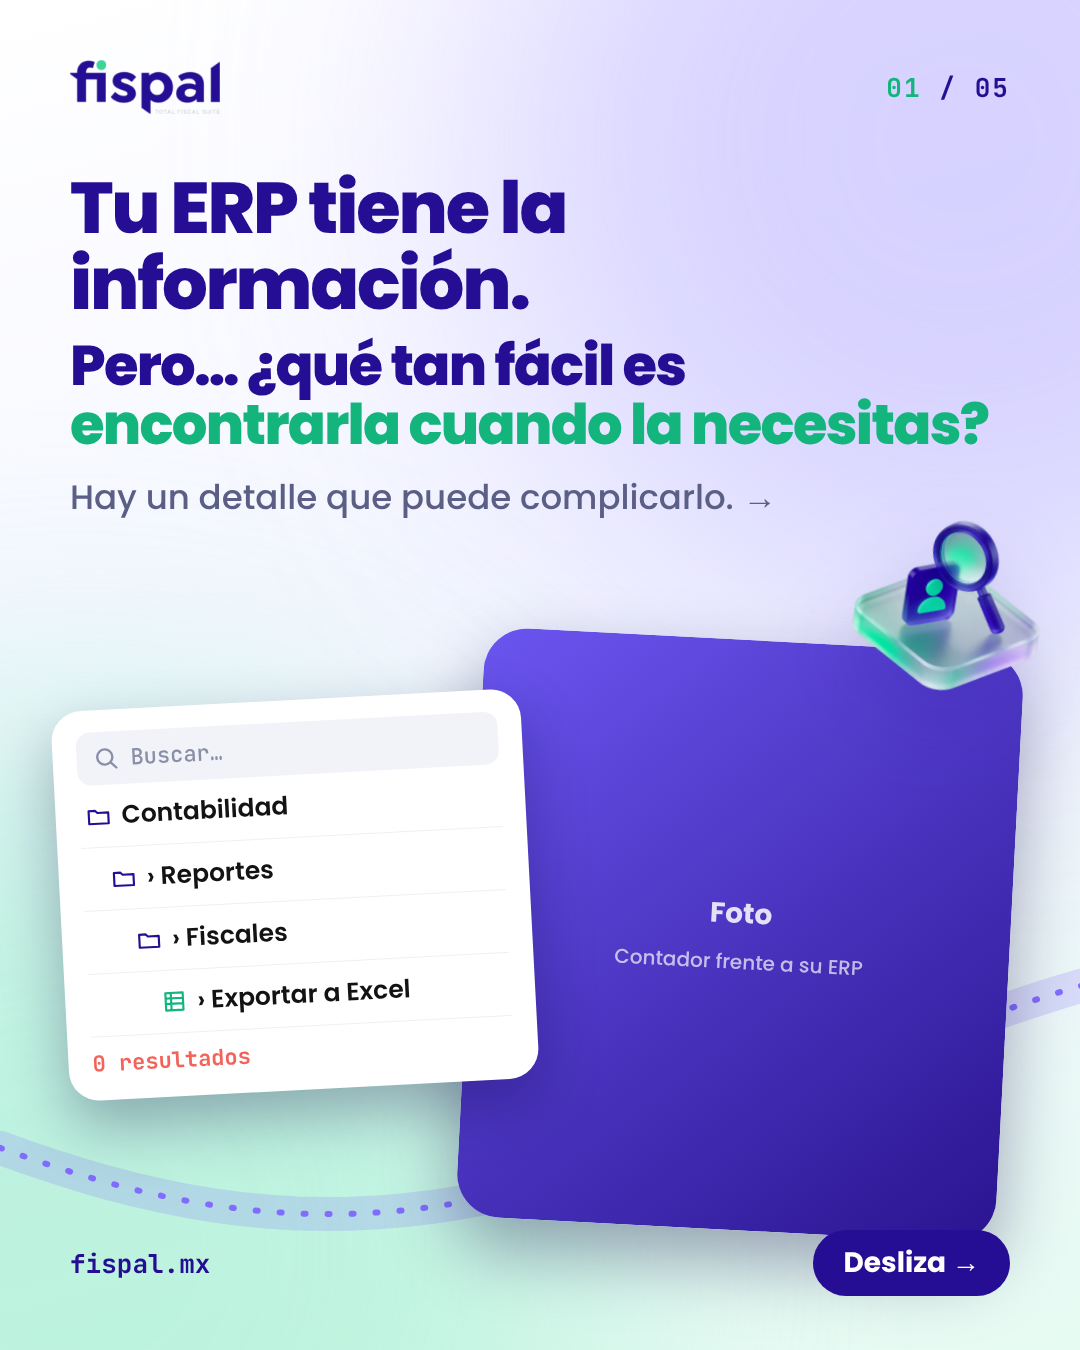
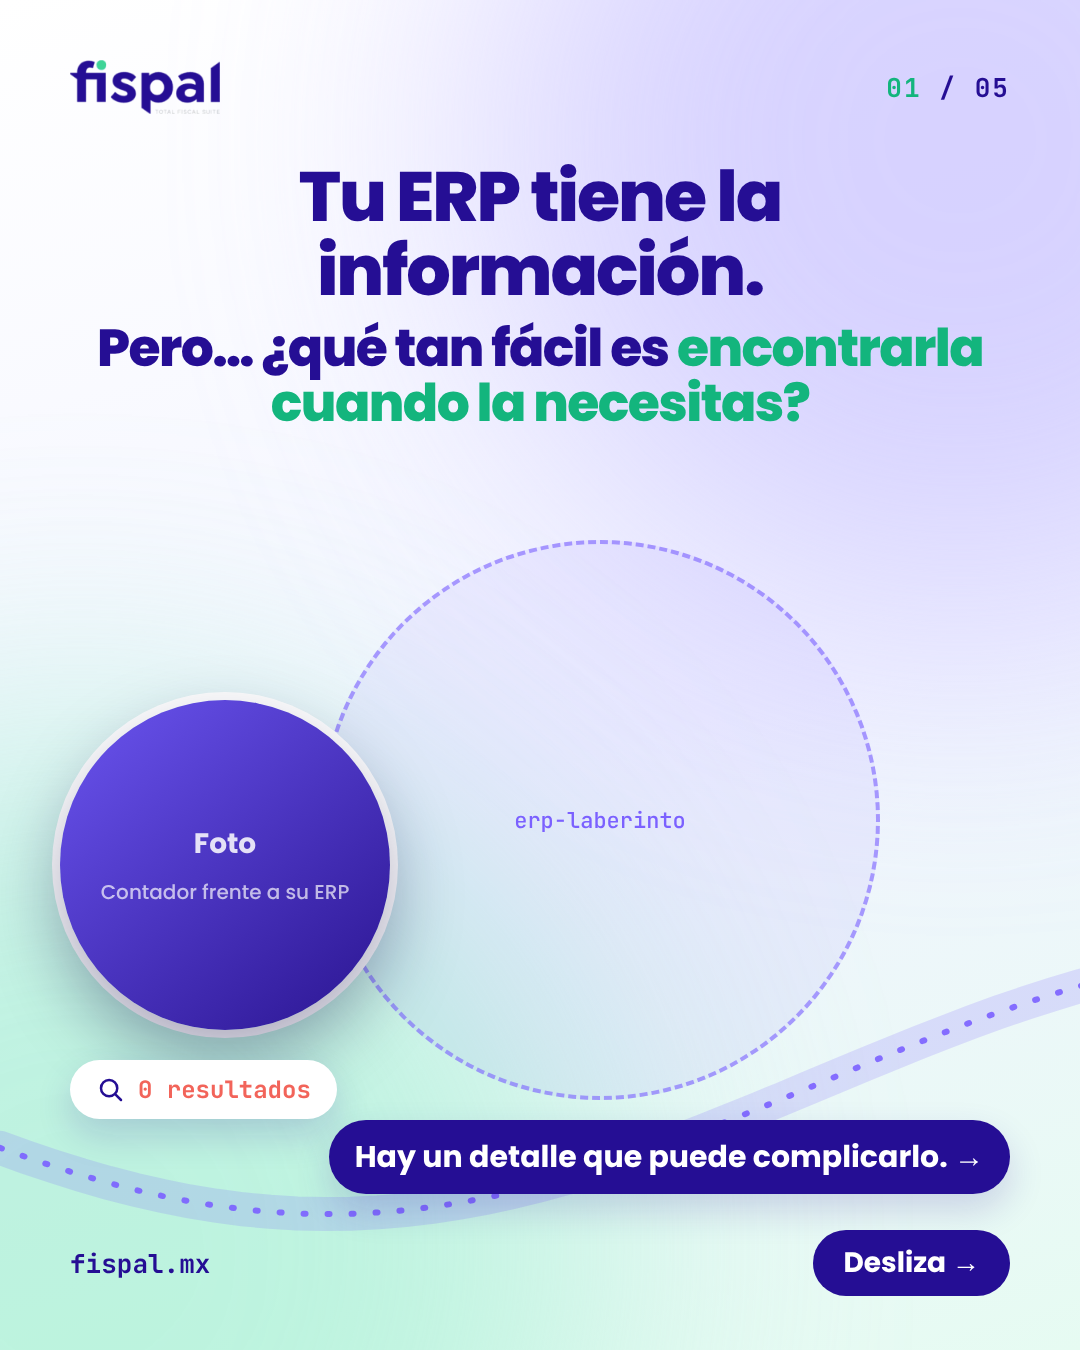
Fispal carrusel 2 (ERP): new layouts and slots for new glass illustrations
Claude-Session: https://claude.ai/code/session_01NghCctPQaKXziVeL1FGG6n

diff --git a/editor/src/carruseles/C2Erp.tsx b/editor/src/carruseles/C2Erp.tsx
@@ -1,9 +1,11 @@
 // Carrusel 2 · parrilla 2 — "Tu ERP tiene la información… ¿qué tan fácil es
 // encontrarla?" Theme: light (white with lilac and mint gradients).
-// Text verbatim from the brief.
+// Its own compositions so it doesn't repeat carrusel 1: a big new glass
+// illustration as the hero of every slide, round photos, a photo banner,
+// centred layouts. Text verbatim from the brief.
 import React from "react";
 import { C, FONT, MONO } from "../fispal/theme";
-import { Body, Card, Carousel, Frame, Glass3D, IC, Icon, Photo, themed, THEMES, Title } from "./kit";
+import { Card, Carousel, Frame, Glass3D, IC, Icon, Photo, themed, THEMES, Title } from "./kit";
 
 const t = themed(THEMES.light);
 const N = 5;
@@ -22,34 +24,30 @@ const ICX = {
   filter: "M3 5h18l-7 8v6l-4 2v-8z",
 };
 
-/* 1 — portada */
+const Pill: React.FC<{ children: React.ReactNode; bg?: string; color?: string; style?: React.CSSProperties }> = ({ children, bg = "#fff", color = "#131313", style }) => (
+  <div style={{ position: "absolute", display: "flex", alignItems: "center", gap: 12, background: bg, color, fontFamily: FONT, fontWeight: 700, fontSize: 28, borderRadius: 999, padding: "14px 26px", boxShadow: "0 16px 36px rgba(37,14,148,.16)", whiteSpace: "nowrap", ...style }}>{children}</div>
+);
+
+/* 1 — portada: centred, the glass labyrinth as hero, round photo */
 const S1: React.FC = () => (
   <Frame t={t} i={0} n={N}>
-    <div style={{ position: "absolute", left: 70, right: 70, top: 170 }}>
-      <Title t={t} size={72} parts={["Tu ERP tiene la información."]} />
-      <Title t={t} size={56} parts={["Pero… ¿qué tan fácil es ", { hl: "encontrarla cuando la necesitas?" }]} style={{ marginTop: 16 }} />
-      <Body t={t}>Hay un detalle que puede complicarlo. →</Body>
+    <div style={{ position: "absolute", left: 70, right: 70, top: 160, textAlign: "center" }}>
+      <Title t={t} size={70} parts={["Tu ERP tiene la información."]} />
+      <Title t={t} size={52} parts={["Pero… ¿qué tan fácil es ", { hl: "encontrarla cuando la necesitas?" }]} style={{ marginTop: 14 }} />
     </div>
-    <Photo name="c2-erp" hint="Contador frente a su ERP" position="50% 30%" style={{ left: 470, top: 640, width: 540, height: 590, transform: "rotate(3deg)" }} />
-    {/* ERP menu maze */}
-    <Card t={t} style={{ position: "absolute", left: 60, top: 700, width: 470, padding: "22px 24px", transform: "rotate(-3deg)" }}>
-      <div style={{ display: "flex", alignItems: "center", gap: 10, background: "#F2F3F8", borderRadius: 14, padding: "12px 16px" }}>
-        <Icon d={IC.search} size={28} color="#8A8FA8" />
-        <span style={{ fontFamily: MONO, fontSize: 22, color: "#8A8FA8" }}>Buscar…</span>
-      </div>
-      {["Contabilidad", "› Reportes", "  › Fiscales", "    › Exportar a Excel"].map((m, k) => (
-        <div key={k} style={{ display: "flex", alignItems: "center", gap: 10, padding: "12px 6px", paddingLeft: 6 + k * 22, borderBottom: "1px solid #EEF0F6" }}>
-          <Icon d={k === 3 ? ICX.sheet : ICX.folder} size={26} color={k === 3 ? GREEN : C.purple} />
-          <span style={{ fontWeight: 600, fontSize: 25 }}>{m.trim()}</span>
-        </div>
-      ))}
-      <div style={{ marginTop: 12, fontFamily: MONO, fontWeight: 700, fontSize: 22, color: CORAL }}>0 resultados</div>
-    </Card>
-    <Glass3D name="lupa" x={950} y={600} size={220} rot={10} />
+    <Glass3D name="erp-laberinto" x={600} y={820} size={560} />
+    <Photo name="c2-erp" hint="Contador frente a su ERP" position="50% 28%" radius="50%" ring="#fff" style={{ left: 60, top: 700, width: 330, height: 330 }} />
+    <Pill style={{ left: 70, top: 1060 }}>
+      <Icon d={IC.search} size={30} color={C.purple} />
+      <span style={{ fontFamily: MONO, fontSize: 24, color: CORAL }}>0 resultados</span>
+    </Pill>
+    <Pill bg={C.purple} color="#fff" style={{ right: 70, top: 1120, fontSize: 30 }}>
+      Hay un detalle que puede complicarlo. →
+    </Pill>
   </Frame>
 );
 
-/* 2 — más pasos de los que debería */
+/* 2 — más pasos: big glass staircase + a vertical step list */
 const STEPS = [
   { l: "Abrir el ERP", i: ICX.grid },
   { l: "Entrar al módulo", i: ICX.folder },
@@ -61,134 +59,95 @@ const STEPS = [
 
 const S2: React.FC = () => (
   <Frame t={t} i={1} n={N}>
-    <div style={{ position: "absolute", left: 70, right: 70, top: 170 }}>
-      <Title t={t} size={52} parts={["Entre reportes, módulos, archivos y diferentes fuentes, encontrar un dato específico puede requerir ", { hl: "más pasos de los que debería." }]} />
+    <div style={{ position: "absolute", left: 70, right: 70, top: 160 }}>
+      <Title t={t} size={50} parts={["Entre reportes, módulos, archivos y diferentes fuentes, encontrar un dato específico puede requerir ", { hl: "más pasos de los que debería." }]} />
     </div>
-    <svg width={1080} height={1350} style={{ position: "absolute", inset: 0 }}>
-      <path d="M250,610 C700,610 830,640 830,740 C830,840 250,820 250,930 C250,1040 830,1020 830,1130" fill="none" stroke={C.purple} strokeWidth={6} strokeDasharray="14 12" opacity={0.35} />
-    </svg>
-    {STEPS.map((s, k) => {
-      const x = k % 2 === 0 ? 90 : 570;
-      const y = 560 + k * 100;
-      return (
-        <Card key={s.l} t={t} style={{ position: "absolute", left: x, top: y, width: 420, padding: "16px 20px", display: "flex", alignItems: "center", gap: 16, transform: `rotate(${k % 2 ? 2 : -2}deg)` }}>
-          <div style={{ width: 52, height: 52, borderRadius: 26, background: C.purple, color: "#fff", fontFamily: FONT, fontWeight: 800, fontSize: 26, display: "flex", alignItems: "center", justifyContent: "center", flexShrink: 0 }}>{k + 1}</div>
-          <Icon d={s.i} size={34} color={C.purple} />
-          <span style={{ fontWeight: 700, fontSize: 28 }}>{s.l}</span>
-        </Card>
-      );
-    })}
-    <div style={{ position: "absolute", left: 640, top: 1150, display: "flex", alignItems: "center", gap: 12, background: CORAL, color: "#fff", fontFamily: FONT, fontWeight: 800, fontSize: 32, borderRadius: 999, padding: "12px 28px", boxShadow: "0 14px 34px rgba(242,100,90,.4)", transform: "rotate(-4deg)" }}>
-      ¿Y el dato?
+    <Glass3D name="pasos" x={790} y={860} size={520} />
+    <div style={{ position: "absolute", left: 70, top: 560, width: 470, display: "flex", flexDirection: "column", gap: 0 }}>
+      {STEPS.map((s, k) => (
+        <div key={s.l} style={{ display: "flex", alignItems: "center", gap: 18, position: "relative", paddingBottom: 26 }}>
+          {k < STEPS.length - 1 && <div style={{ position: "absolute", left: 27, top: 56, bottom: 0, width: 4, background: "rgba(37,14,148,.18)" }} />}
+          <div style={{ width: 58, height: 58, borderRadius: 29, background: k === STEPS.length - 1 ? CORAL : C.purple, color: "#fff", fontFamily: FONT, fontWeight: 800, fontSize: 28, display: "flex", alignItems: "center", justifyContent: "center", flexShrink: 0, boxShadow: "0 10px 22px rgba(37,14,148,.25)" }}>{k + 1}</div>
+          <Icon d={s.i} size={32} color={C.purple} />
+          <span style={{ fontFamily: FONT, fontWeight: 700, fontSize: 30, color: t.ink }}>{s.l}</span>
+        </div>
+      ))}
     </div>
-    <Glass3D name="bloques" x={330} y={1150} size={150} rot={-8} />
+    <Pill bg={CORAL} color="#fff" style={{ right: 90, top: 1130, fontSize: 32, transform: "rotate(-4deg)" }}>¿Y el dato?</Pill>
   </Frame>
 );
 
-/* 3 — responder rápido */
+/* 3 — responder rápido: photo banner on top, text below */
 const S3: React.FC = () => (
   <Frame t={t} i={2} n={N}>
-    <div style={{ position: "absolute", left: 70, right: 70, top: 170 }}>
-      <Title t={t} size={52} parts={["Y cuando necesitas responder rápido una pregunta fiscal, depender de búsquedas manuales puede convertirse en ", { hl: "un problema operativo." }]} />
-    </div>
-    <Photo name="c2-urgente" hint="Analista al teléfono con prisa" position="50% 28%" style={{ left: 70, top: 640, width: 500, height: 590, transform: "rotate(-3deg)" }} />
-    <Card t={t} style={{ position: "absolute", left: 500, top: 660, width: 510, padding: "22px 24px", transform: "rotate(2deg)" }}>
+    <Photo name="c2-urgente" hint="Analista al teléfono con prisa" position="50% 30%" radius={40} style={{ left: 70, right: 70, top: 150, height: 560 }} />
+    <Card t={t} style={{ position: "absolute", left: 110, top: 560, width: 560, padding: "20px 24px", transform: "rotate(-2deg)" }}>
       <div style={{ display: "flex", alignItems: "center", gap: 12 }}>
-        <div style={{ width: 52, height: 52, borderRadius: 26, background: C.purple, display: "flex", alignItems: "center", justifyContent: "center" }}>
-          <Icon d={ICX.chat} size={28} />
+        <div style={{ width: 46, height: 46, borderRadius: 23, background: C.purple, display: "flex", alignItems: "center", justifyContent: "center" }}>
+          <Icon d={ICX.chat} size={24} />
         </div>
-        <span style={{ fontWeight: 700, fontSize: 24, color: "#5E6480" }}>Dirección · ahora</span>
+        <span style={{ fontWeight: 700, fontSize: 22, color: "#5E6480" }}>Dirección · ahora</span>
       </div>
-      <div style={{ marginTop: 14, fontWeight: 700, fontSize: 32, lineHeight: 1.2 }}>¿Cuánto le facturamos a Grupo Andino en septiembre?</div>
+      <div style={{ marginTop: 10, fontWeight: 700, fontSize: 30, lineHeight: 1.2 }}>¿Cuánto le facturamos a Grupo Andino en septiembre?</div>
     </Card>
-    <Card t={t} style={{ position: "absolute", left: 560, top: 950, width: 430, padding: "20px 24px", transform: "rotate(-2deg)", border: `2px solid ${CORAL}` }}>
-      <div style={{ display: "flex", alignItems: "center", gap: 12 }}>
-        <Icon d={ICX.clock} size={38} color={CORAL} />
-        <span style={{ fontFamily: MONO, fontWeight: 700, fontSize: 36, color: CORAL }}>00:47:12</span>
-      </div>
-      <div style={{ fontWeight: 600, fontSize: 24, color: "#5E6480", marginTop: 6 }}>Buscando manualmente…</div>
-      <div style={{ marginTop: 12, height: 14, borderRadius: 7, background: "#F1F3F7", overflow: "hidden" }}>
-        <div style={{ width: "28%", height: "100%", background: CORAL, borderRadius: 7 }} />
-      </div>
-    </Card>
-    <Glass3D name="calendario" x={930} y={1210} size={170} rot={8} />
+    <div style={{ position: "absolute", left: 70, right: 330, top: 820 }}>
+      <Title t={t} size={46} parts={["Y cuando necesitas responder rápido una pregunta fiscal, depender de búsquedas manuales puede convertirse en ", { hl: "un problema operativo." }]} />
+    </div>
+    <Glass3D name="reloj-alerta" x={890} y={960} size={330} />
+    <Pill style={{ right: 70, top: 1130, border: `2px solid ${CORAL}` }}>
+      <Icon d={ICX.clock} size={30} color={CORAL} />
+      <span style={{ fontFamily: MONO, color: CORAL }}>00:47:12</span>
+    </Pill>
   </Frame>
 );
 
-/* 4 — Fispal: criterios y filtros */
-const FILTERS = [
-  ["RFC", "GAN150312KL4"],
-  ["Fecha", "Sep 2026"],
-  ["Tipo", "Emitido"],
-  ["Monto", "Todos"],
-  ["Estatus", "Vigente"],
+/* 4 — Fispal: funnel hero in the centre, filters around it, result below */
+const FILTERS: [string, number, number][] = [
+  ["RFC", 110, 600],
+  ["Fecha", 760, 560],
+  ["Tipo", 70, 820],
+  ["Monto", 820, 790],
+  ["Estatus", 130, 1010],
 ];
 
 const S4: React.FC = () => (
   <Frame t={t} i={3} n={N}>
-    <div style={{ position: "absolute", left: 70, right: 70, top: 170 }}>
-      <Title t={t} size={60} parts={[{ hl: "Fispal" }, " concentra tu información fiscal y permite consultarla utilizando diferentes criterios y filtros."]} />
+    <div style={{ position: "absolute", left: 80, right: 80, top: 160, textAlign: "center" }}>
+      <Title t={t} size={54} parts={[{ hl: "Fispal" }, " concentra tu información fiscal y permite consultarla utilizando diferentes criterios y filtros."]} />
     </div>
-    <Card t={t} style={{ position: "absolute", left: 60, right: 60, top: 560, padding: "26px 30px" }}>
-      <div style={{ display: "flex", alignItems: "center", gap: 14, background: "#F4F5FB", border: `3px solid ${GREEN}`, borderRadius: 18, padding: "16px 20px" }}>
-        <Icon d={IC.search} size={34} color={C.purple} />
-        <span style={{ fontFamily: MONO, fontSize: 26 }}>Grupo Andino · septiembre</span>
-        <span style={{ marginLeft: "auto", display: "flex", alignItems: "center", gap: 6, fontFamily: MONO, fontWeight: 700, fontSize: 22, color: GREEN }}>
-          <Icon d={ICX.bolt} size={24} color={GREEN} /> al instante
-        </span>
+    <Glass3D name="embudo" x={540} y={800} size={500} />
+    {FILTERS.map(([k, x, y], i) => (
+      <Pill key={k} bg={i % 2 ? C.purple : "#fff"} color={i % 2 ? "#fff" : "#131313"} style={{ left: x, top: y, transform: `rotate(${i % 2 ? 4 : -4}deg)` }}>
+        <Icon d={ICX.filter} size={24} color={i % 2 ? "#fff" : C.purple} />
+        {k}
+      </Pill>
+    ))}
+    <Card t={t} style={{ position: "absolute", left: 520, right: 70, top: 1010, padding: "18px 24px", display: "flex", alignItems: "center", gap: 14, border: `3px solid ${GREEN}` }}>
+      <Icon d={ICX.bolt} size={36} color={GREEN} />
+      <div>
+        <div style={{ fontWeight: 600, fontSize: 22, color: "#5E6480" }}>23 CFDI · Grupo Andino · sep</div>
+        <div style={{ fontWeight: 800, fontSize: 44, color: GREEN }}>$184,250</div>
       </div>
-      <div style={{ display: "flex", flexWrap: "wrap", gap: 12, margin: "20px 0" }}>
-        {FILTERS.map(([k, v], i) => (
-          <span key={k} style={{ display: "inline-flex", alignItems: "center", gap: 8, fontWeight: 700, fontSize: 24, borderRadius: 999, padding: "10px 18px", background: i < 3 ? C.purple : "#fff", color: i < 3 ? "#fff" : "#131313", border: `2px solid ${i < 3 ? C.purple : "#E1E3EC"}` }}>
-            <Icon d={ICX.filter} size={20} color={i < 3 ? "#fff" : C.purple} />
-            {k}
-            <span style={{ fontFamily: MONO, fontSize: 19, opacity: 0.8 }}>· {v}</span>
-          </span>
-        ))}
-      </div>
-      <div style={{ display: "grid", gridTemplateColumns: "1fr 1fr", gap: 18 }}>
-        {[
-          ["Total facturado", "$184,250"],
-          ["CFDI encontrados", "23"],
-        ].map(([l, v]) => (
-          <div key={l} style={{ background: "rgba(19,181,125,.1)", borderRadius: 22, padding: "20px 24px" }}>
-            <div style={{ fontWeight: 600, fontSize: 24, color: "#5E6480" }}>{l}</div>
-            <div style={{ fontWeight: 800, fontSize: 58, color: GREEN }}>{v}</div>
-          </div>
-        ))}
-      </div>
-      {["8F2A…19C0 · 02/09 · $8,450", "3B7D…44E1 · 11/09 · $12,300"].map((r) => (
-        <div key={r} style={{ display: "flex", alignItems: "center", gap: 12, padding: "16px 6px", borderBottom: "1px solid #EEF0F6" }}>
-          <Icon d={IC.doc} size={30} color={C.purple} />
-          <span style={{ fontFamily: MONO, fontSize: 23, flex: 1 }}>{r}</span>
-          <Icon d={IC.check} size={28} color={GREEN} sw={3} />
-        </div>
-      ))}
     </Card>
-    <Glass3D name="modulos" x={950} y={520} size={180} rot={6} />
   </Frame>
 );
 
-/* 5 — cierre */
+/* 5 — cierre: dashboard hero, round photo, centred CTA */
 const S5: React.FC = () => (
   <Frame t={t} i={4} n={N} last>
-    <div style={{ position: "absolute", left: 70, right: 70, top: 170 }}>
-      <Title t={t} size={56} parts={["Menos tiempo buscando información."]} style={{ color: t.sub }} />
-      <Title t={t} size={66} parts={["Más facilidad para ", { hl: "consultarla y analizarla." }]} style={{ marginTop: 14 }} />
+    <div style={{ position: "absolute", left: 70, right: 420, top: 170 }}>
+      <Title t={t} size={48} parts={["Menos tiempo buscando información."]} style={{ color: t.sub }} />
+      <Title t={t} size={58} parts={["Más facilidad para ", { hl: "consultarla y analizarla." }]} style={{ marginTop: 14 }} />
     </div>
-    <Photo name="c2-relax" hint="Gerente relajado con su laptop" position="55% 30%" style={{ left: 70, top: 600, width: 480, height: 560, transform: "rotate(-3deg)" }} ring={GREEN} />
-    <Card t={t} style={{ position: "absolute", left: 470, top: 640, padding: "16px 24px", display: "flex", alignItems: "center", gap: 12, transform: "rotate(4deg)" }}>
-      <div style={{ width: 46, height: 46, borderRadius: 23, background: GREEN, display: "flex", alignItems: "center", justifyContent: "center" }}>
-        <Icon d={IC.check} size={28} sw={3.2} />
-      </div>
-      <span style={{ fontWeight: 800, fontSize: 34 }}>Consulta lista</span>
-    </Card>
-    <div style={{ position: "absolute", left: 590, right: 50, top: 820, display: "flex", flexDirection: "column", gap: 18, alignItems: "flex-start" }}>
-      <span style={{ fontFamily: FONT, fontWeight: 800, fontSize: 32, color: "#fff", background: C.purple, borderRadius: 999, padding: "18px 30px", boxShadow: "0 16px 40px rgba(37,14,148,.3)", whiteSpace: "nowrap" }}>Crea tu cuenta gratis →</span>
-      <span style={{ fontFamily: MONO, fontWeight: 700, fontSize: 34, color: t.ink }}>fispal.mx</span>
-      <span style={{ fontFamily: FONT, fontWeight: 600, fontSize: 30, color: t.sub, lineHeight: 1.3 }}>y empieza a consultar tu información fiscal.</span>
+    <Glass3D name="dashboard" x={850} y={400} size={420} />
+    <Photo name="c2-relax" hint="Gerente relajado con su laptop" position="55% 28%" radius="50%" ring={GREEN} style={{ left: 330, top: 640, width: 420, height: 420 }} />
+    <Pill style={{ left: 640, top: 700 }}>
+      <Icon d={IC.check} size={30} color={GREEN} sw={3} /> Consulta lista
+    </Pill>
+    <div style={{ position: "absolute", left: 0, right: 0, top: 1100, display: "flex", flexDirection: "column", alignItems: "center", gap: 14 }}>
+      <span style={{ fontFamily: FONT, fontWeight: 800, fontSize: 36, color: "#fff", background: C.purple, borderRadius: 999, padding: "20px 44px", boxShadow: "0 16px 40px rgba(37,14,148,.3)" }}>Crea tu cuenta gratis en fispal.mx →</span>
+      <span style={{ fontFamily: FONT, fontWeight: 600, fontSize: 28, color: t.sub }}>y empieza a consultar tu información fiscal.</span>
     </div>
-    <Glass3D name="esfera" x={930} y={1220} size={170} />
   </Frame>
 );
 

diff --git a/editor/src/carruseles/kit.tsx b/editor/src/carruseles/kit.tsx
@@ -93,7 +93,10 @@ export const Photo: React.FC<{ name: string; hint: string; style: React.CSSPrope
 };
 
 /* ---------- glass illustration, static for stills ---------- */
-export const Glass3D: React.FC<{ name: string; x: number; y: number; size: number; rot?: number }> = ({ name, x, y, size, rot = 0 }) => (
+export const Glass3D: React.FC<{ name: string; x: number; y: number; size: number; rot?: number }> = ({ name, x, y, size, rot = 0 }) =>
+  !getStaticFiles().some((f) => f.name === `fispal/illus/${name}.png`) ? (
+    <div style={{ position: "absolute", left: x - size / 2, top: y - size / 2, width: size, height: size, borderRadius: "50%", border: "4px dashed rgba(123,97,255,.6)", display: "flex", alignItems: "center", justifyContent: "center", fontFamily: MONO, fontSize: 22, color: "#7B61FF", background: "rgba(123,97,255,.08)" }}>{name}</div>
+  ) : (
   <div style={{ position: "absolute", left: x - size / 2, top: y - size / 2, transform: `rotate(${rot}deg)` }}>
     <AbsoluteFill style={{ position: "relative", width: size, height: size }}>
       <Illus name={name} at={-60} x={size / 2} y={size / 2} size={size} />
